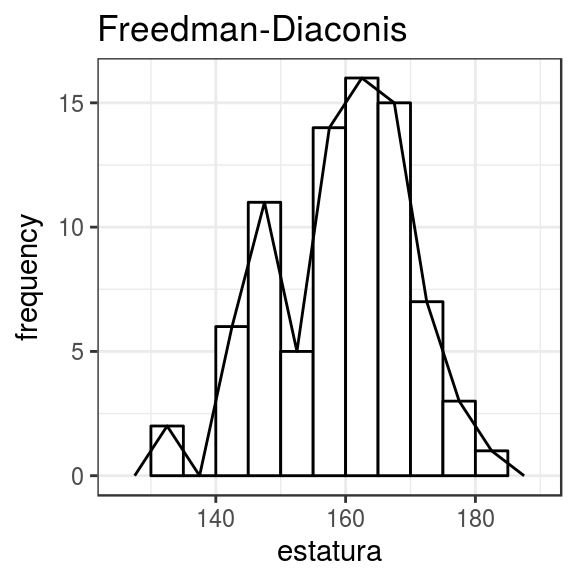
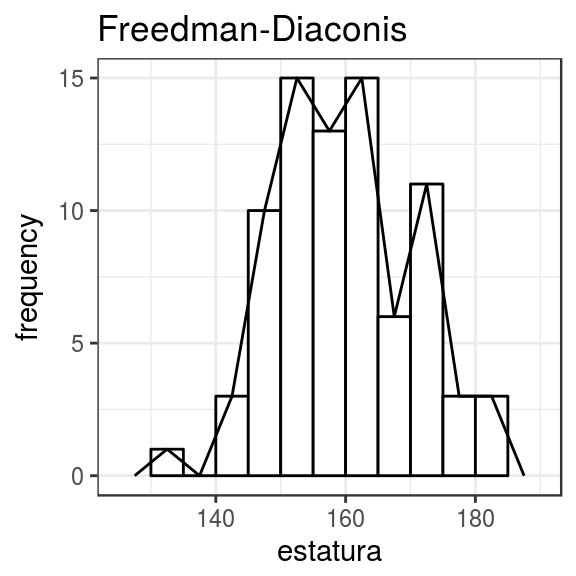
rodian.co a rodianf.github.io

diff --git a/2018/05/09/histogramr/index.html b/2018/05/09/histogramr/index.html
@@ -174,71 +174,71 @@ tab_freq(estatura) %&gt;%
 <tbody>
 <tr class="odd">
 <td align="left">[130, 135)</td>
-<td align="right">2</td>
-<td align="right">0.0250</td>
-<td align="right">2</td>
-<td align="right">0.0250</td>
+<td align="right">1</td>
+<td align="right">0.0125</td>
+<td align="right">1</td>
+<td align="right">0.0125</td>
 </tr>
 <tr class="even">
 <td align="left">[140, 145)</td>
-<td align="right">6</td>
-<td align="right">0.0750</td>
-<td align="right">8</td>
-<td align="right">0.1000</td>
+<td align="right">3</td>
+<td align="right">0.0375</td>
+<td align="right">4</td>
+<td align="right">0.0500</td>
 </tr>
 <tr class="odd">
 <td align="left">[145, 150)</td>
-<td align="right">11</td>
-<td align="right">0.1375</td>
-<td align="right">19</td>
-<td align="right">0.2375</td>
+<td align="right">10</td>
+<td align="right">0.1250</td>
+<td align="right">14</td>
+<td align="right">0.1750</td>
 </tr>
 <tr class="even">
 <td align="left">[150, 155)</td>
-<td align="right">5</td>
-<td align="right">0.0625</td>
-<td align="right">24</td>
-<td align="right">0.3000</td>
+<td align="right">15</td>
+<td align="right">0.1875</td>
+<td align="right">29</td>
+<td align="right">0.3625</td>
 </tr>
 <tr class="odd">
 <td align="left">[155, 160)</td>
-<td align="right">14</td>
-<td align="right">0.1750</td>
-<td align="right">38</td>
-<td align="right">0.4750</td>
+<td align="right">13</td>
+<td align="right">0.1625</td>
+<td align="right">42</td>
+<td align="right">0.5250</td>
 </tr>
 <tr class="even">
 <td align="left">[160, 165)</td>
-<td align="right">16</td>
-<td align="right">0.2000</td>
-<td align="right">54</td>
-<td align="right">0.6750</td>
+<td align="right">15</td>
+<td align="right">0.1875</td>
+<td align="right">57</td>
+<td align="right">0.7125</td>
 </tr>
 <tr class="odd">
 <td align="left">[165, 170)</td>
-<td align="right">15</td>
-<td align="right">0.1875</td>
-<td align="right">69</td>
-<td align="right">0.8625</td>
+<td align="right">6</td>
+<td align="right">0.0750</td>
+<td align="right">63</td>
+<td align="right">0.7875</td>
 </tr>
 <tr class="even">
 <td align="left">[170, 175)</td>
-<td align="right">7</td>
-<td align="right">0.0875</td>
-<td align="right">76</td>
-<td align="right">0.9500</td>
+<td align="right">11</td>
+<td align="right">0.1375</td>
+<td align="right">74</td>
+<td align="right">0.9250</td>
 </tr>
 <tr class="odd">
 <td align="left">[175, 180)</td>
 <td align="right">3</td>
 <td align="right">0.0375</td>
-<td align="right">79</td>
-<td align="right">0.9875</td>
+<td align="right">77</td>
+<td align="right">0.9625</td>
 </tr>
 <tr class="even">
 <td align="left">[180, 185]</td>
-<td align="right">1</td>
-<td align="right">0.0125</td>
+<td align="right">3</td>
+<td align="right">0.0375</td>
 <td align="right">80</td>
 <td align="right">1.0000</td>
 </tr>
@@ -254,13 +254,13 @@ summary(comparacion)</code></pre>
 ## 
 ##    method nclasses
 ## 1 Sturges        8
-## 2      FD        7
+## 2      FD        8
 ## 3   scott        6
 ## 
 ## Summary of input vector:
 ## 
 ##    Min. 1st Qu.  Median    Mean 3rd Qu.    Max. 
-##   133.6   151.0   160.9   159.3   166.9   181.3</code></pre>
+##   134.1   152.1   158.9   159.8   166.5   184.3</code></pre>
 <pre class="r"><code>ggplot(comparacion)</code></pre>
 <p><img src="../../../../post/histogramR_files/figure-html/unnamed-chunk-3-1.png" width="672" /></p>
 
@@ -280,31 +280,6 @@ summary(comparacion)</code></pre>
 </nav>
 
   
-<section id="comments">
-  <div id="disqus_thread">
-    <div id="disqus_thread"></div>
-<script>
-    var disqus_config = function () {
-    
-    
-    
-    };
-    (function() {
-        if (["localhost", "127.0.0.1"].indexOf(window.location.hostname) != -1) {
-            document.getElementById('disqus_thread').innerHTML = 'Disqus comments not available by default when the website is previewed locally.';
-            return;
-        }
-        var d = document, s = d.createElement('script'); s.async = true;
-        s.src = '//' + "shortname" + '.disqus.com/embed.js';
-        s.setAttribute('data-timestamp', +new Date());
-        (d.head || d.body).appendChild(s);
-    })();
-</script>
-<noscript>Please enable JavaScript to view the <a href="https://disqus.com/?ref_noscript">comments powered by Disqus.</a></noscript>
-<a href="https://disqus.com" class="dsq-brlink">comments powered by <span class="logo-disqus">Disqus</span></a>
-  </div>
-</section>
-
 
 
 </div>

diff --git a/2016/12/21/arrancando/index.html b/2016/12/21/arrancando/index.html
@@ -164,31 +164,6 @@
 </nav>
 
   
-<section id="comments">
-  <div id="disqus_thread">
-    <div id="disqus_thread"></div>
-<script>
-    var disqus_config = function () {
-    
-    
-    
-    };
-    (function() {
-        if (["localhost", "127.0.0.1"].indexOf(window.location.hostname) != -1) {
-            document.getElementById('disqus_thread').innerHTML = 'Disqus comments not available by default when the website is previewed locally.';
-            return;
-        }
-        var d = document, s = d.createElement('script'); s.async = true;
-        s.src = '//' + "shortname" + '.disqus.com/embed.js';
-        s.setAttribute('data-timestamp', +new Date());
-        (d.head || d.body).appendChild(s);
-    })();
-</script>
-<noscript>Please enable JavaScript to view the <a href="https://disqus.com/?ref_noscript">comments powered by Disqus.</a></noscript>
-<a href="https://disqus.com" class="dsq-brlink">comments powered by <span class="logo-disqus">Disqus</span></a>
-  </div>
-</section>
-
 
 
 </div>
